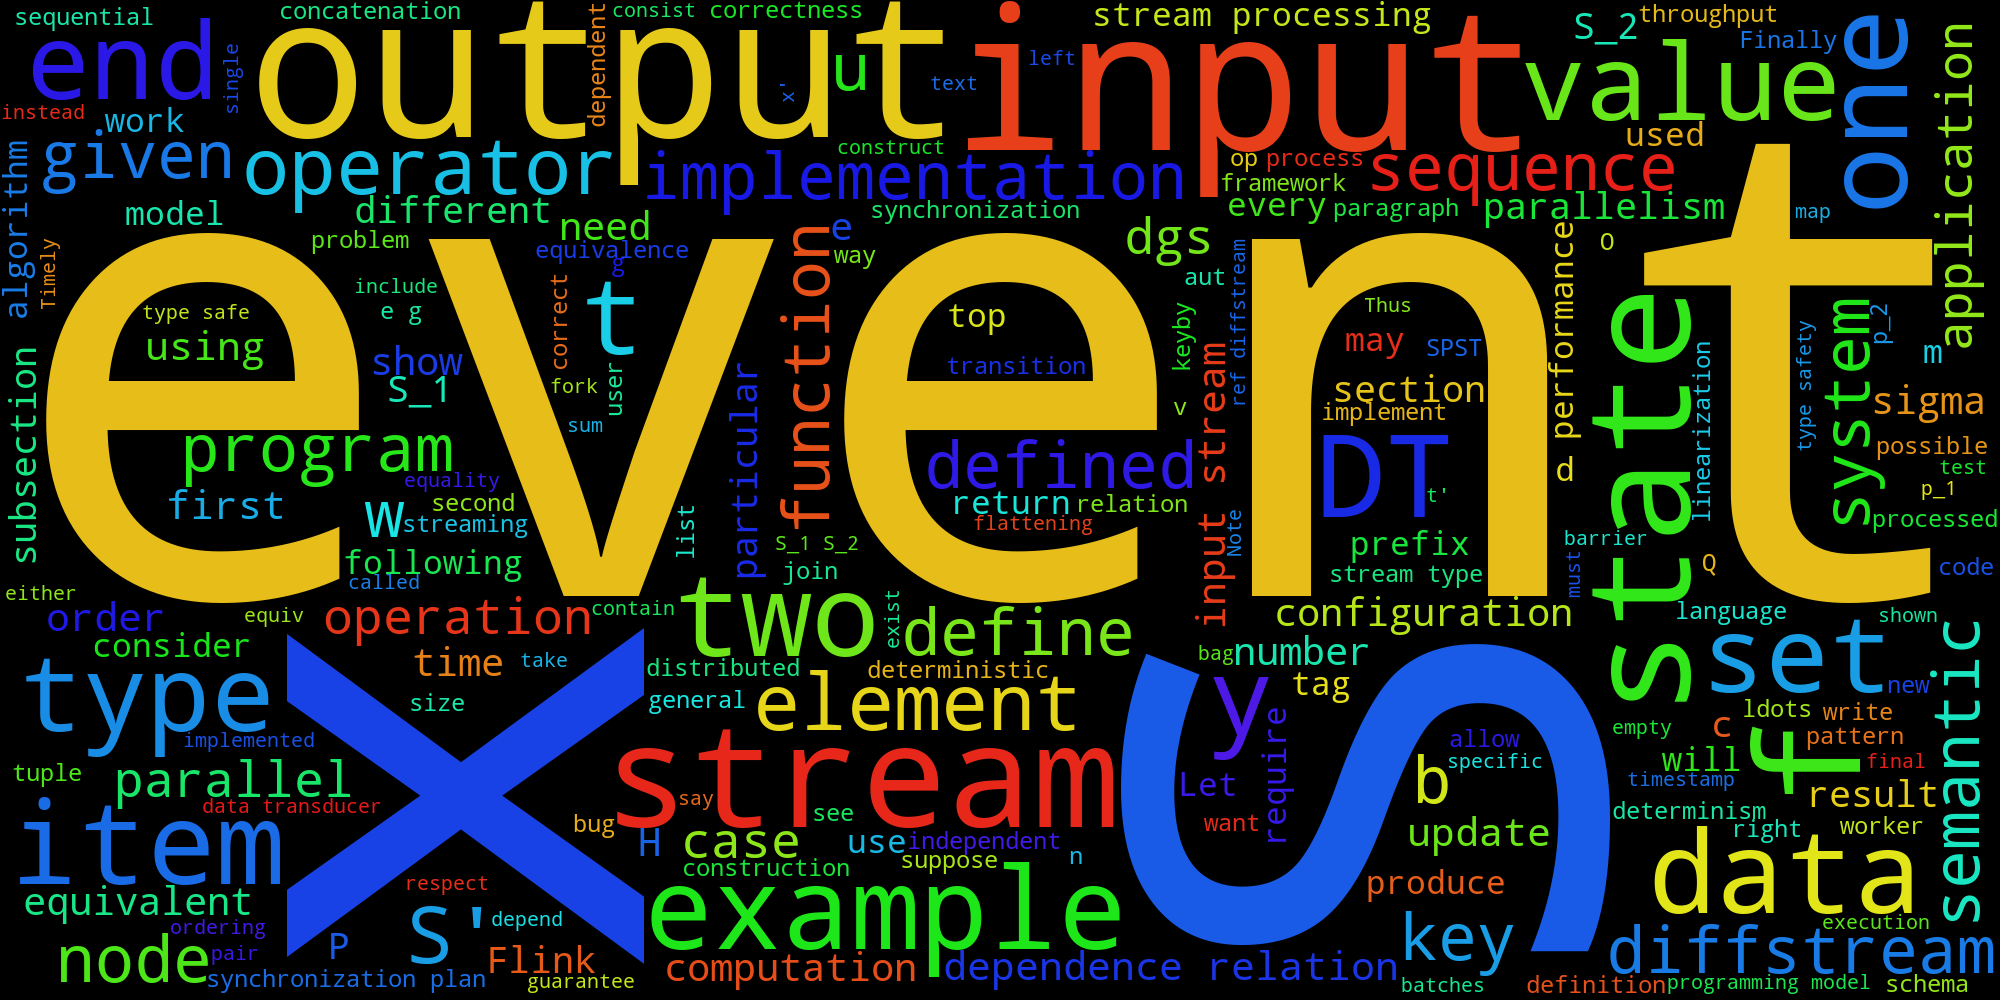
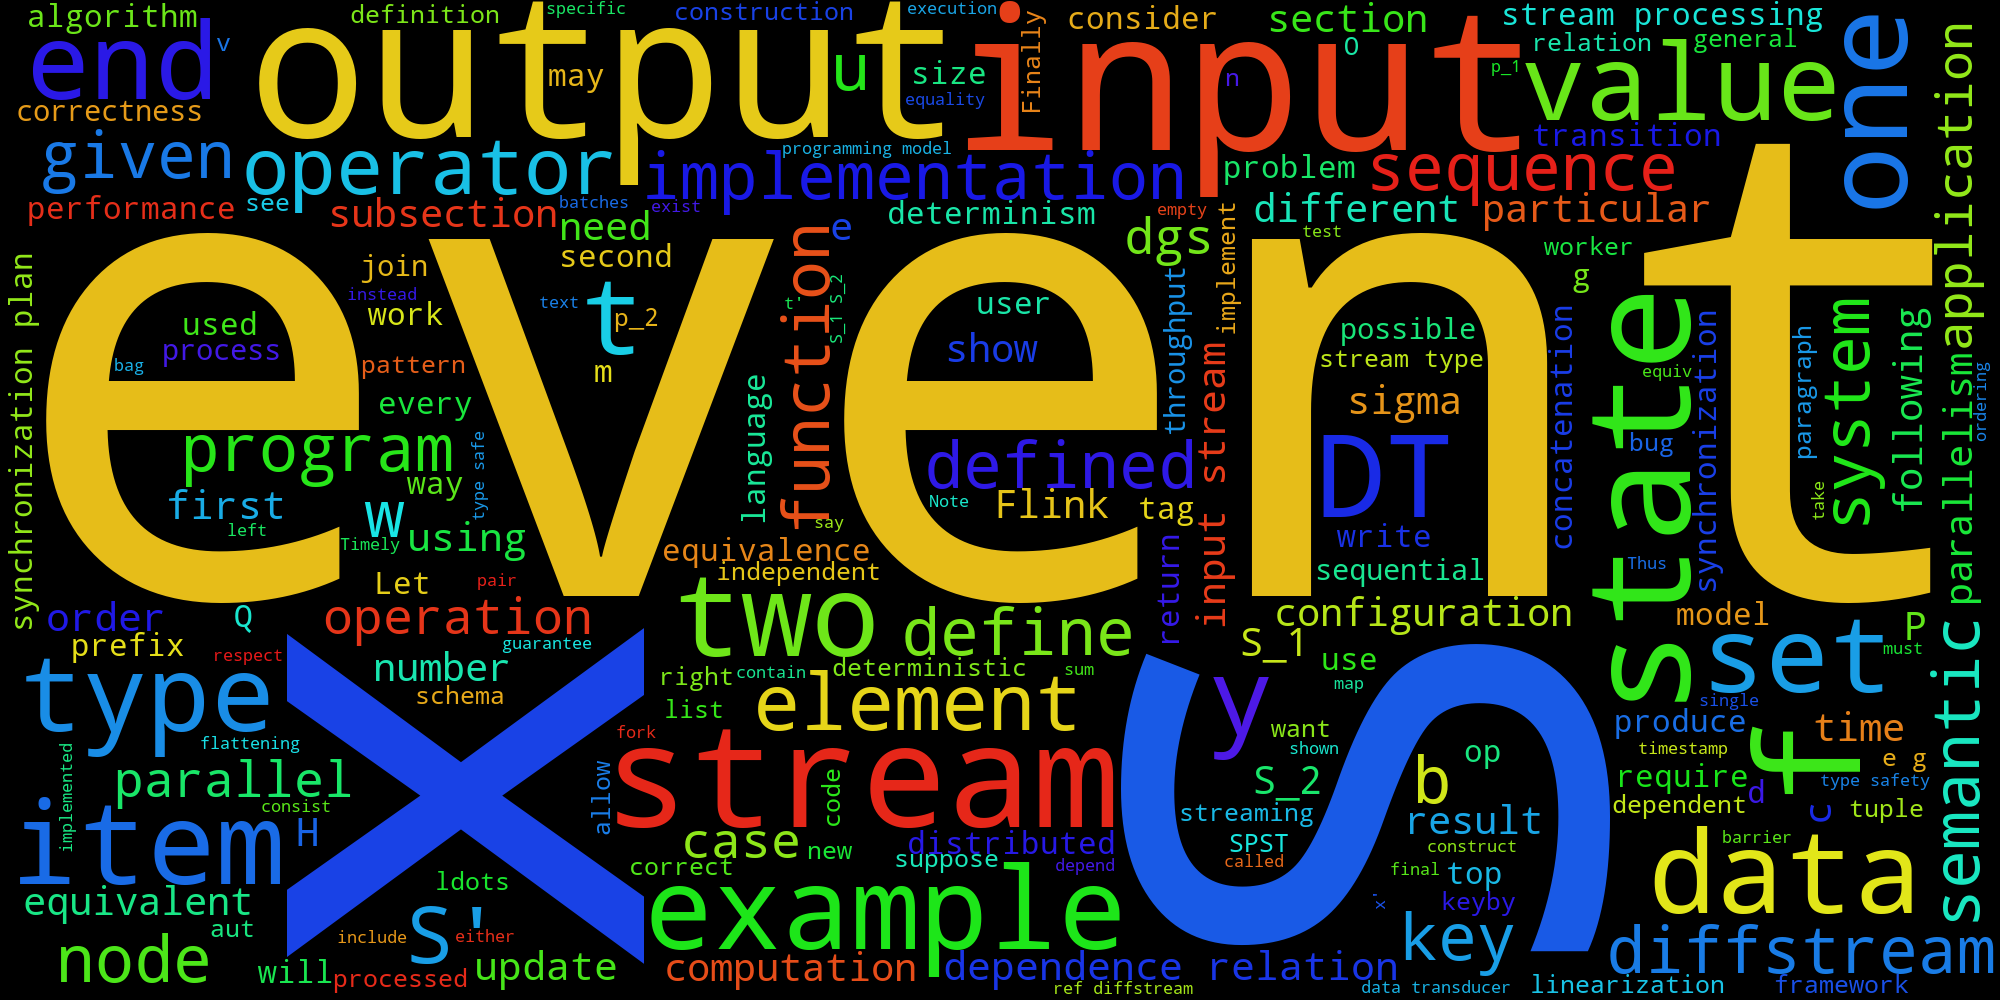
add word cloud to appendix

diff --git a/src/appendix.tex b/src/appendix.tex
@@ -2,6 +2,15 @@
   \headerquote{Well-chosen, non-frivolous epigraphs can enhance a thesis.}{Dave Clarke~\cite{AcademiaSE}}
 }
 
+\section{Word Cloud}
+
+The following is a word cloud generated from all the text in this thesis.
+The image was generated using the \githubref{https://github.com/amueller/word\_cloud}{\texttt{wordcloud\_cli} Python tool}.
+
+\headerblock{
+  \headerimage{img/wordcloud.png}
+}
+
 \section{Epigraph Outtakes}
 
 \headerblock{
